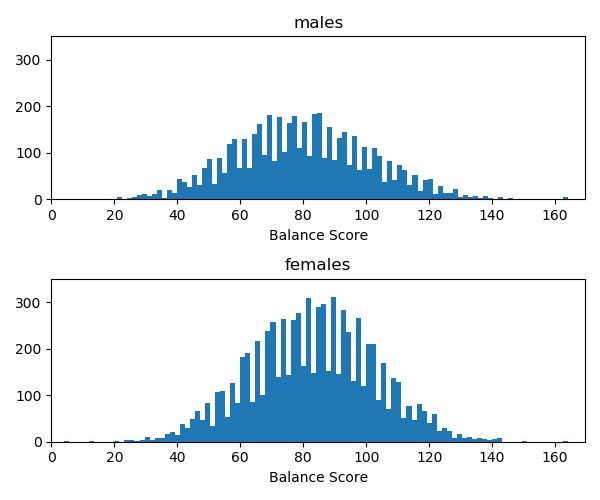
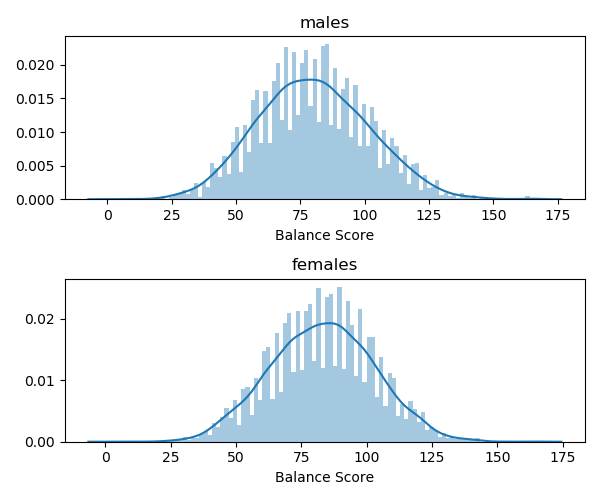
update images

diff --git a/src/well-style-cs1.py b/src/well-style-cs1.py
@@ -2,6 +2,7 @@ import pandas as pd
 import matplotlib.pyplot as plt
 import numpy as np
 import scipy.stats as stats
+import seaborn as sns
 
 df = pd.read_csv('../data/wellbeing-lifestyle-cs1.csv')
 
@@ -94,96 +95,95 @@ def sort_age(ages):
 #     return np.std(lst)
 
 # def norm_dist(mean, std): #NEEDS ATTENTION
-#     pass
+#     norm = stats.norm(loc=mean, scale=std)
+#     return norm.rvs(size=1000)
     
 def plot_bal_by_age():
 
     x = [[sort_20, sort_21], [sort_36, sort_51]]
     titles = [['20 or less', '21 to 35'], ['36 to 50', '51 or more']]
     fig, ax = plt.subplots(2, 2, figsize=(12, 5))
-    
+        
     for i in range(2):
 
         for j in range(2):
 
-            ax[i][j].hist(x[i][j], 100)
-            ax[i][j].axis([0, 169.5, 0, 205])
+            sns.distplot(x[i][j], bins=100, kde=True, ax=ax[i][j])
             ax[i][j].set_title(titles[i][j])
             ax[i][j].set_xlabel('Balance Score')
 
     plt.tight_layout()
-    plt.savefig('compare_balscores_ages.png')
-    plt.show()
+    plt.savefig('../images/compare_balscores_ages.png', transparent=True)
+    #plt.show()
     
 
 def plot_bal_by_mf():
     
     x = [sort_males, sort_females]
     titles = ['males', 'females']
-    fig, ax = plt.subplots(2, 1, figsize=(6,5))
-
+    fig, ax = plt.subplots(2, 1, figsize=(6,5))    
+   
     for i in range(2):
-        
-        ax[i].hist(x[i], 100)
-        ax[i].axis([0, 169.5, 0, 350])
+
+        sns.distplot(x[i], bins=100, kde=True, ax=ax[i])
         ax[i].set_title(titles[i])
         ax[i].set_xlabel('Balance Score')
+        
 
     plt.tight_layout()
-    plt.savefig('compare_balscores_mf.png')
-    plt.show()
+    plt.savefig('../images/compare_balscores_mf.png')
+    #plt.show()
 
 def plot_bal_by_mf_age():
     
     x = [[sort_male_20, sort_male_21, sort_male_36, sort_male_51], [sort_female_20, sort_female_21, sort_female_36, sort_female_51]]
     titles = [['m: 20 or lesss', 'm: 21 to 35', 'm: 36 to 50', 'm: 51 or more'], ['f: 20 or lesss', 'f: 21 to 35', 'f: 36 to 50', 'f: 51 or more']]
     fig, ax = plt.subplots(2, 4, figsize=(12, 4))
-    
+        
     for i in range(2):
 
         for j in range(4):
 
-            ax[i][j].hist(x[i][j], 50)
-            ax[i][j].axis([0, 169.5, 0, 200])
+            sns.distplot(x[i][j], bins=100, kde=True, ax=ax[i][j])
             ax[i][j].set_title(titles[i][j])
             ax[i][j].set_xlabel('Balance Score')
 
     plt.tight_layout()
-    plt.savefig('compare_balscores_mf_age.png')
-    plt.show()    
+    plt.savefig('../images/compare_balscores_mf_age.png')
+    #plt.show()    
     
 def plot_male_female_mean_var_std():
     pass
 
 if __name__ == '__main__':
 
-    # sort_male_20 = sort_mf_age('Male', '20 or less', 'males')
+    sort_male_20 = sort_mf_age('Male', '20 or less', 'males')
     
-    # sort_male_21 = sort_mf_age('Male', '21 to 35', 'males')
+    sort_male_21 = sort_mf_age('Male', '21 to 35', 'males')
 
-    # sort_male_36 = sort_mf_age('Male', '36 to 50', 'males')
+    sort_male_36 = sort_mf_age('Male', '36 to 50', 'males')
 
-    # sort_male_51 = sort_mf_age('Male', '51 or more', 'males')
+    sort_male_51 = sort_mf_age('Male', '51 or more', 'males')
 
-    # sort_female_20 = sort_mf_age('Female', '20 or less', 'females')
+    sort_female_20 = sort_mf_age('Female', '20 or less', 'females')
 
-    # sort_female_21 = sort_mf_age('Female', '21 to 35', 'females')
+    sort_female_21 = sort_mf_age('Female', '21 to 35', 'females')
 
-    # sort_female_36 = sort_mf_age('Female', '36 to 50', 'females')
+    sort_female_36 = sort_mf_age('Female', '36 to 50', 'females')
 
-    # sort_female_51 = sort_mf_age('Female', '51 or more', 'females')
+    sort_female_51 = sort_mf_age('Female', '51 or more', 'females')
 
-    # sort_males = sort_mf('Male', 'males')
+    sort_males = sort_mf('Male', 'males')
 
-    # sort_females = sort_mf('Female', 'females')
+    sort_females = sort_mf('Female', 'females')
 
-    # sort_20 = sort_age('20 or less')
+    sort_20 = sort_age('20 or less')
 
-    # sort_21 = sort_age('21 to 35')
+    sort_21 = sort_age('21 to 35')
 
-    # sort_36 = sort_age('36 to 50')
+    sort_36 = sort_age('36 to 50')
     
-    # sort_51 = sort_age('51 or more')
+    sort_51 = sort_age('51 or more')
 
     # bal_scores_to_list = convert_to_list()
 
@@ -215,9 +215,9 @@ if __name__ == '__main__':
 
     # std_51_bal = get_standard_deviations(sort_51)
 
-    #norm_dist_51 = norm_dist(mean_male_bal, std_male_bal)
-    #print(f'Normal Distribution for 51 or more: {norm_dist_51}')
+    # norm_dist_m = norm_dist(mean_male_bal, std_male_bal)
+    #print(f'Normal Distribution for 51 or more: {norm_dist_m}')
 
-    # plot_bal_ages = plot_bal_by_age()
-    # plot_bal_m_f =  plot_bal_by_mf()
-    # plot_bal_mf_a = plot_bal_by_mf_age()
+    plot_bal_ages = plot_bal_by_age()
+    plot_bal_m_f =  plot_bal_by_mf()
+    plot_bal_mf_a = plot_bal_by_mf_age()

diff --git a/README.md b/README.md
@@ -1,17 +1,19 @@
+![alt text](http://www.authentic-happiness.com/_/rsrc/1514760169721/home/The%20Authentic%20Happiness%20Project%202018.jpg)
+
 # capstone-1
 The code, data, plots, proposal, tests, readme for capstone-1 project about work-life-balance from the authentic happiness
 
-![alt text](http://www.authentic-happiness.com/_/rsrc/1514760169721/home/The%20Authentic%20Happiness%20Project%202018.jpg)
+https://www.kaggle.com/ydalat/lifestyle-and-wellbeing-data
 
-/home/leonardo-leads/Documents/galvanize_dsi/capstone-1/images/compare_balscores_mf.png
+
 
 Figure 1: Comparing the balance scores of males and females
 
-/home/leonardo-leads/Documents/galvanize_dsi/capstone-1/images/compare_balscores_ages.png
+
 
 Figure 2: Comparing the balance scores of four age ranges
 
-/home/leonardo-leads/Documents/galvanize_dsi/capstone-1/images/compare_balscores_mf_ages.png
+
 
 Figure 3: Comparing the balance scores of four age ranges amonst males and females
 
